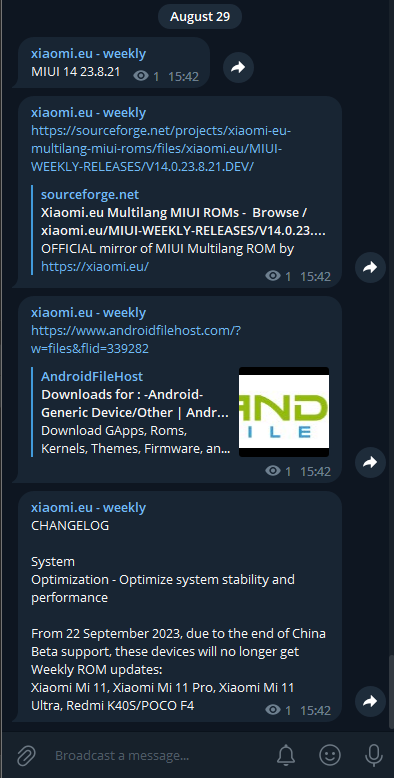
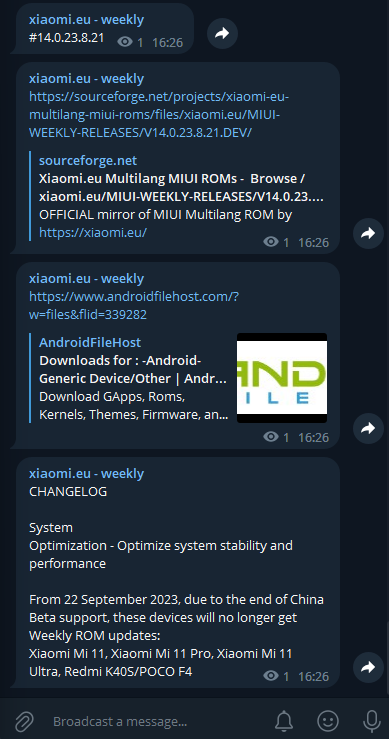
changed the way that python sends the data to the channel. Bot used instead of user

diff --git a/xiaomi_eu_new_thread_checker.py b/xiaomi_eu_new_thread_checker.py
@@ -1,4 +1,14 @@
+import unicodedata
+
 from scraper import scrape_config_by_url
+
+
+def fix_title(string):
+    string = unicodedata.normalize('NFKD', string)
+    lst = string.split()
+    if len(lst[1]) > 2:
+        return lst[1] + "." + lst[2]
+    return lst[1] + ".0." + lst[2]
 
 
 def telegram_message():
@@ -16,7 +26,6 @@ def telegram_message():
         if current_result[0].startswith("CHANGELOG"):
             output.append(current_result[0])
     return output
-
 
 # or print the result directly in the console:
 # print(*telegram_message(), sep="\n")

diff --git a/send_to_telegram_channel.py b/send_to_telegram_channel.py
@@ -1,0 +1,22 @@
+import asyncio
+import os
+from telegram import Bot
+from dotenv import load_dotenv
+from xiaomi_eu_new_thread_checker import telegram_message, fix_title
+
+load_dotenv()
+message = telegram_message()
+title = message[0]
+bot = Bot(os.getenv('TOKEN'))
+message[0] = f"#{fix_title(title)}"
+
+
+async def send_telegram_message():
+    for m in message:
+        await bot.send_message(
+            chat_id="@%s" % os.getenv('CHANNEL_NAME'),
+            text=m
+        )
+
+
+asyncio.run(send_telegram_message())
